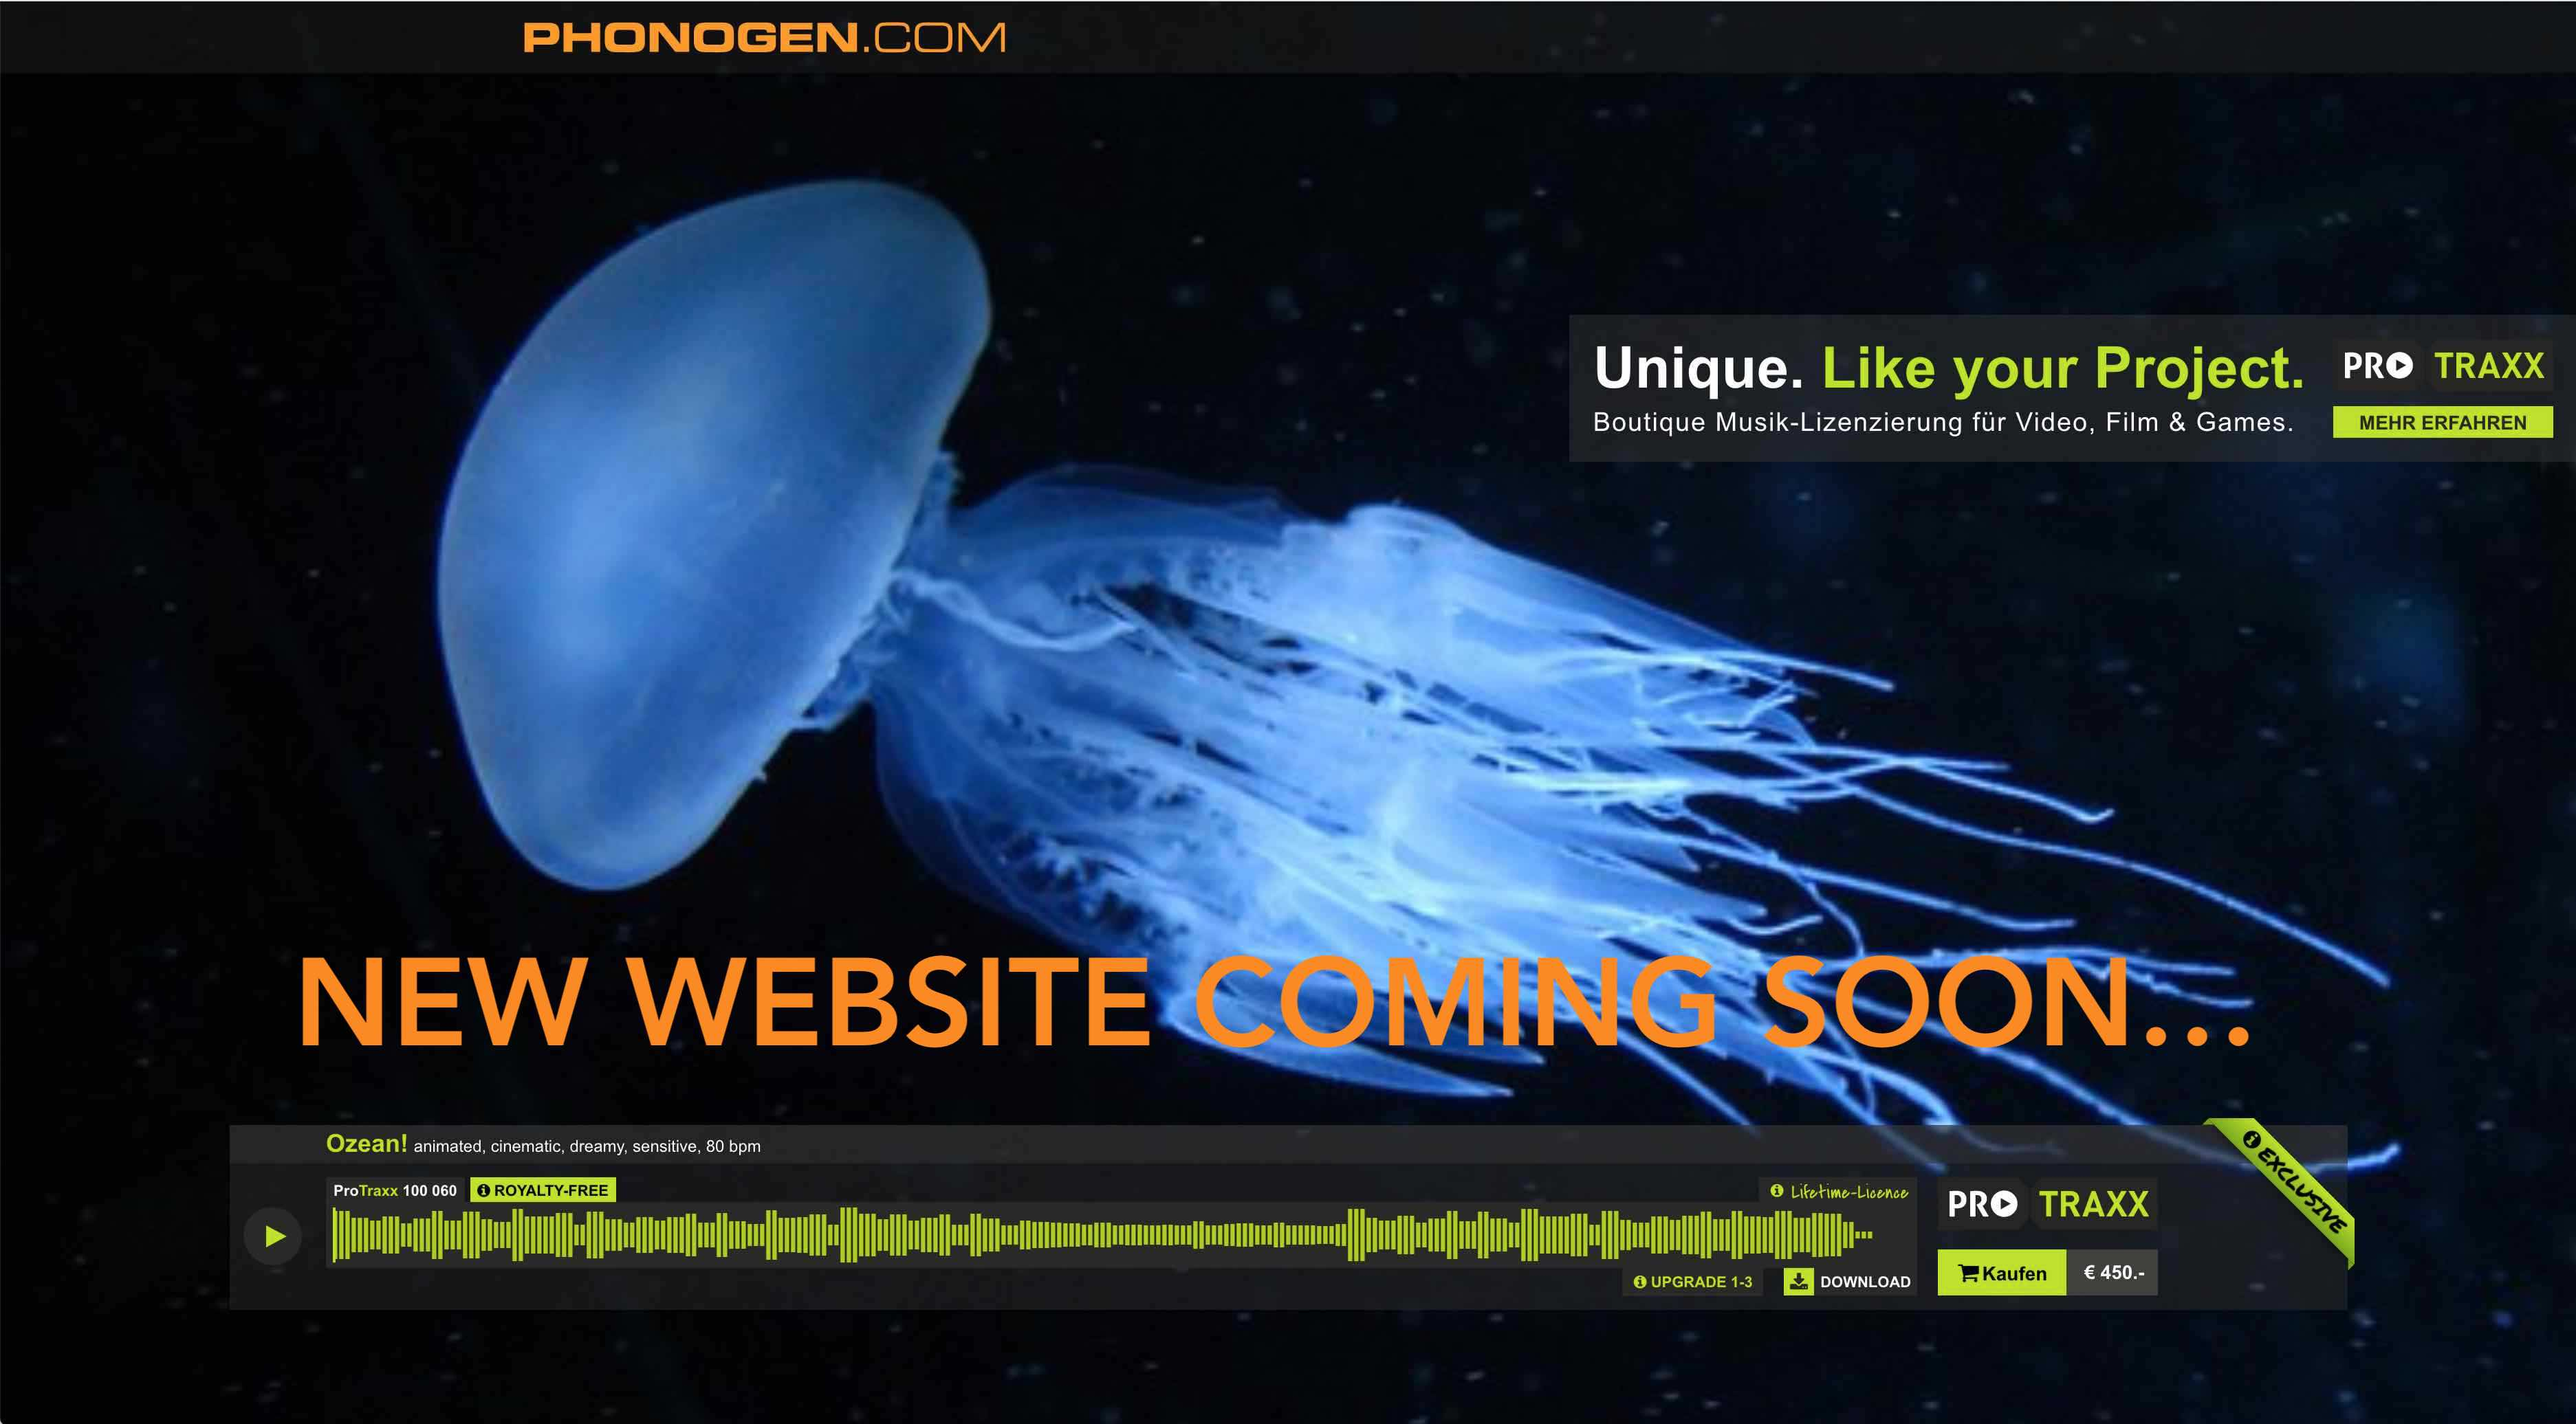
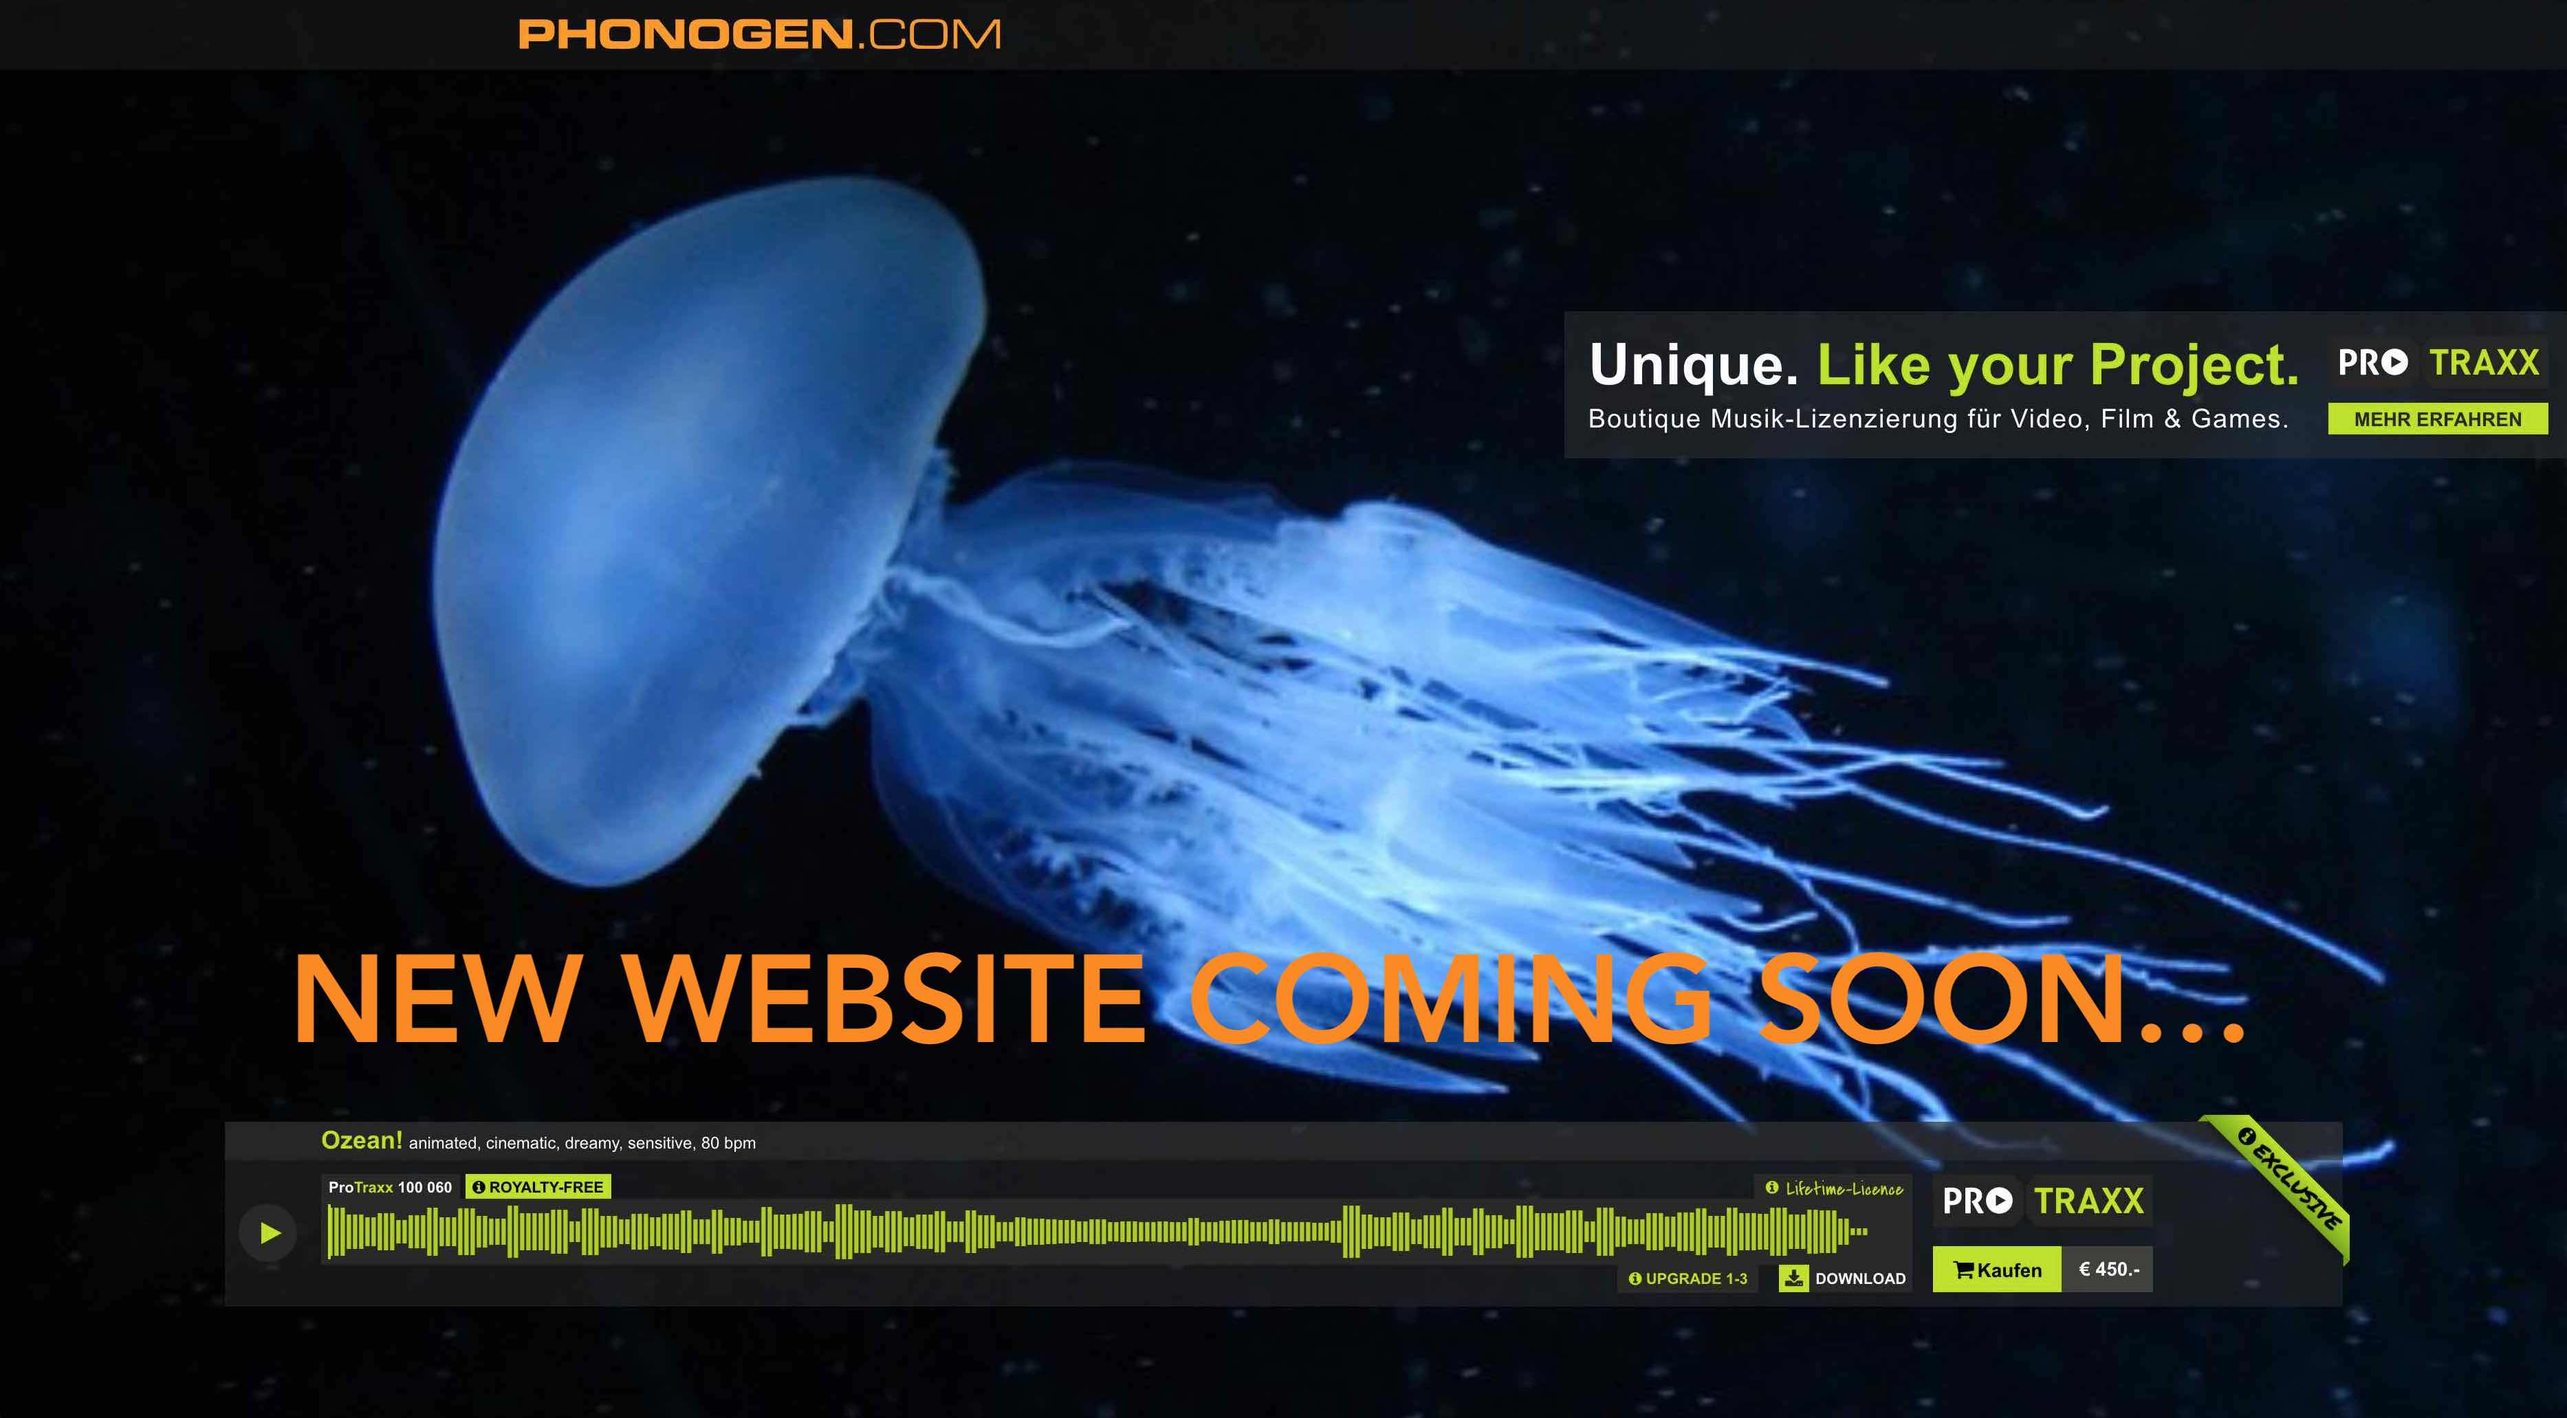
tweaks

diff --git a/index.html b/index.html
@@ -2,7 +2,7 @@
     <head>
         <title>ProTraxx by Phonogen</title>
     </head>
-    <body style="background: url(phonogen.jpg); background-repeat: no-repeat; background-size: contain; background-color: #090808; display: block; width: 100%; height: 100%; margin: 0; padding: 0;">
+    <body style="background: url(phonogen.jpg); background-repeat: no-repeat; background-size: contain; background-position: center; background-color: ##101010; display: block; width: 100%; height: 100%; margin: 0; padding: 0;">
         
     </body>
 </html>
